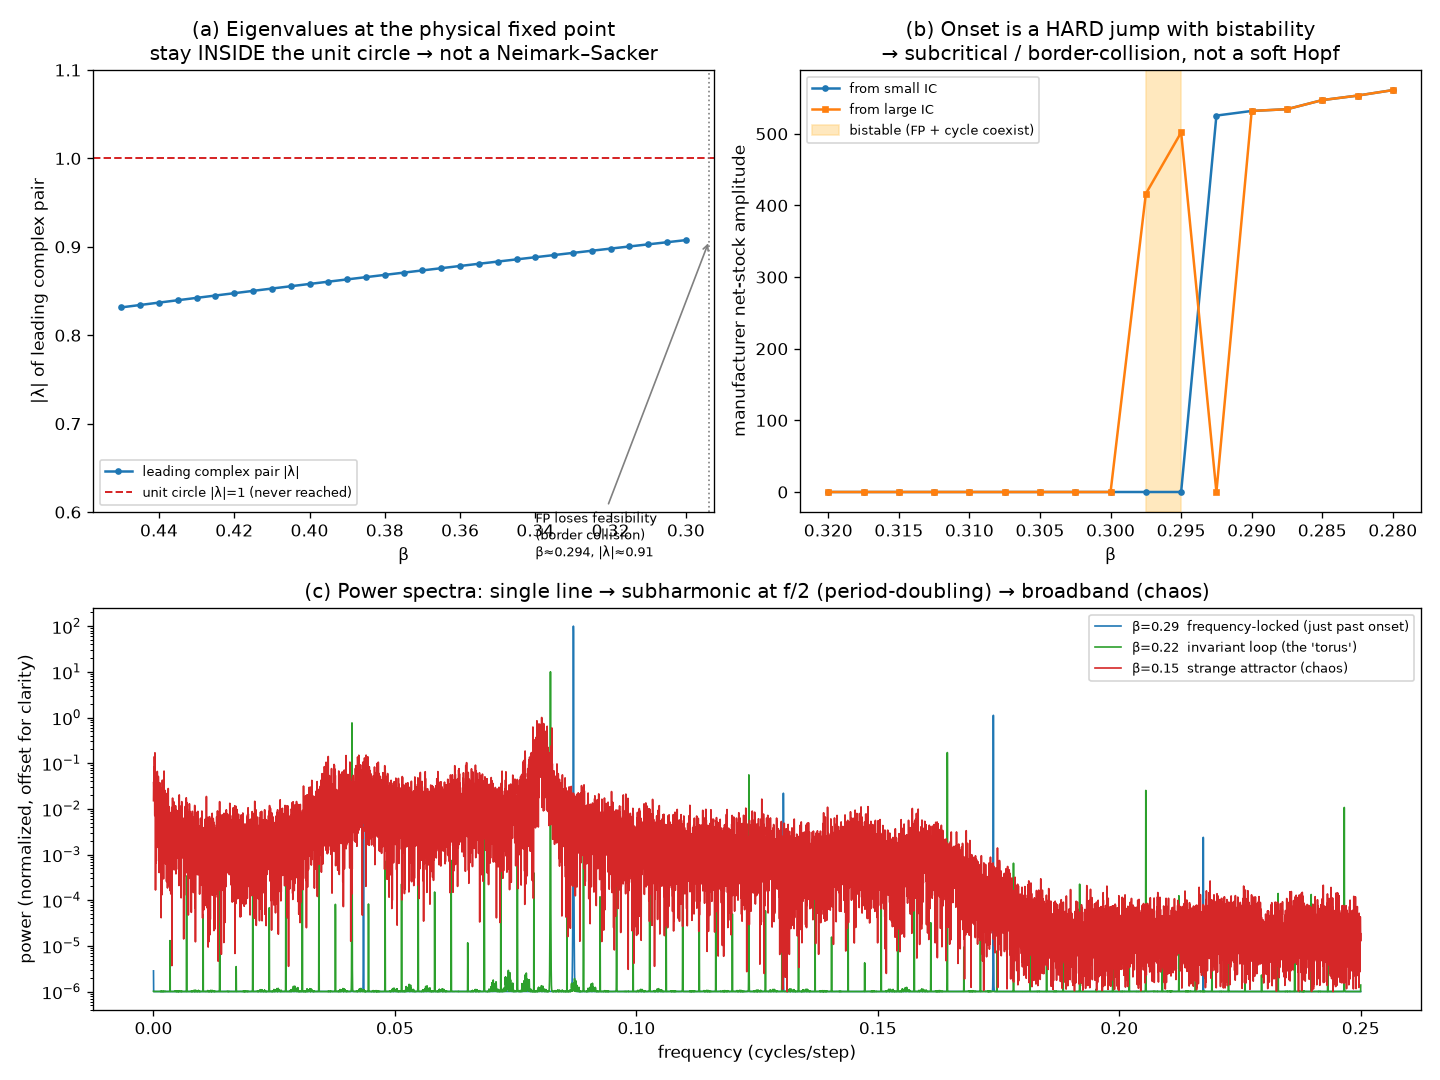
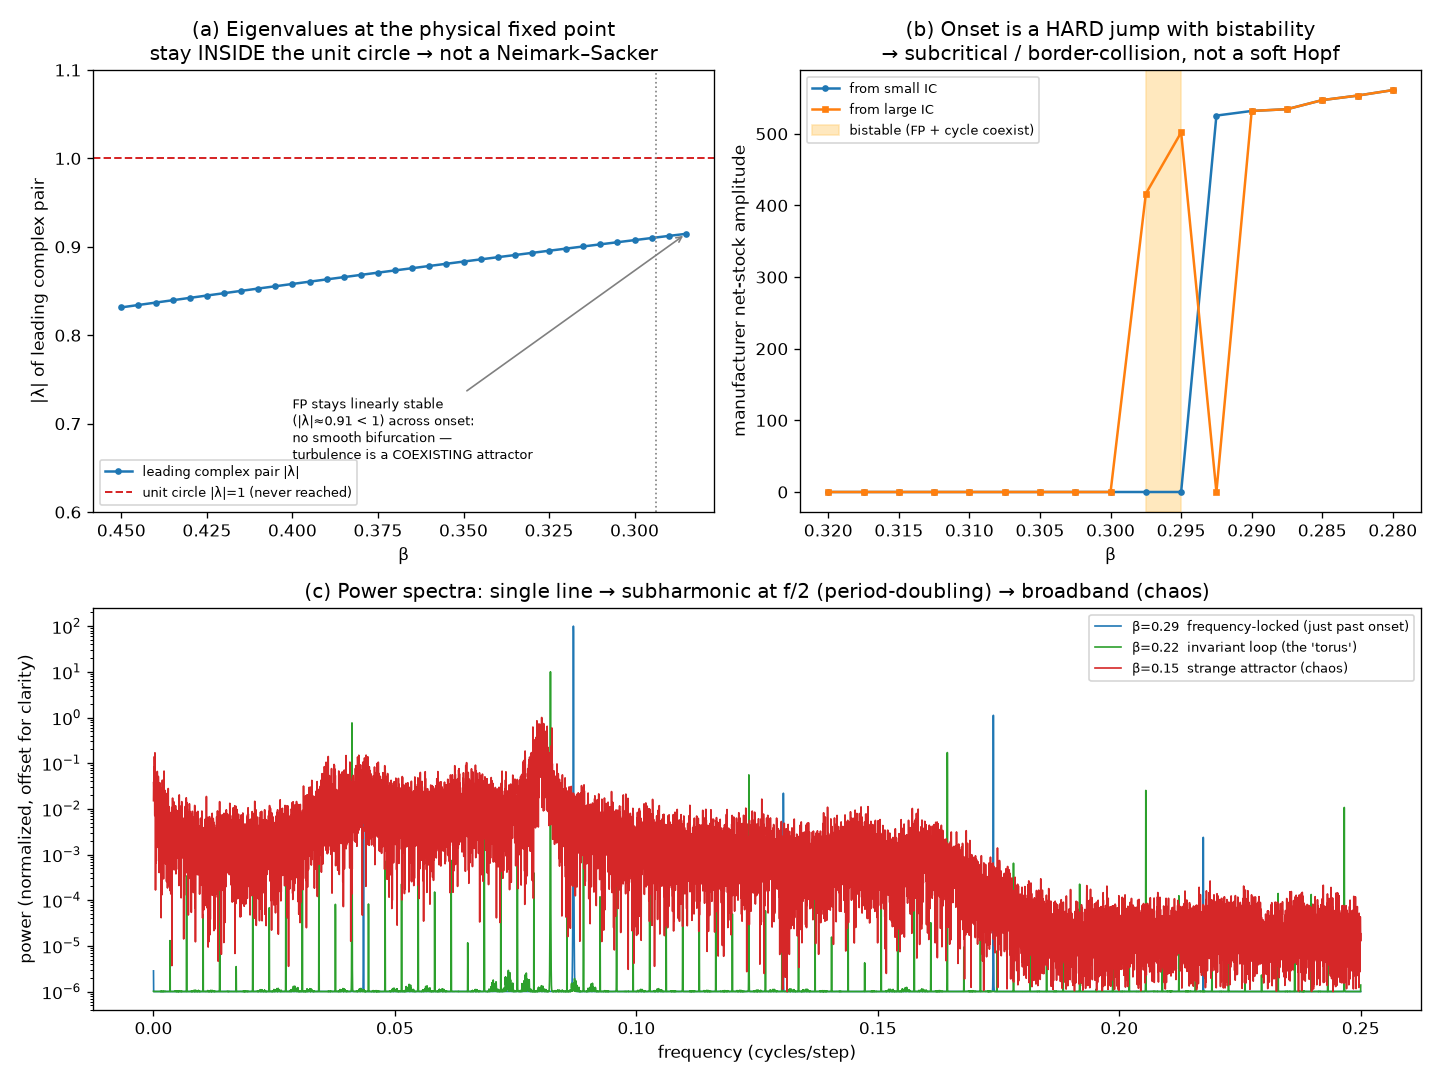
Sharpen CYB-2 border-collision finding: coexistence, path-dependence, active border
Close-out refinements after a more careful look at the onset, folding in the two
findings Desktop flagged. The headline (piecewise-smooth border-collision, NOT a
smooth Neimark-Sacker) is unchanged and, if anything, stronger.

- The attracting fixed point (found by honest iteration) stays linearly stable
  |lambda|~0.91 and INTERIOR (inv-backlog~129, order~100, far from both borders)
  clean through the onset region -- it never crosses |lambda|=1 and is NOT
  destroyed. Corrected the earlier imprecise "FP loses feasibility / collides with
  a switching manifold" wording (in run_route.py, linearize.py, README, plan,
  solution) accordingly.

- The turbulent attractor is therefore a COEXISTING attractor (bistability over a
  broad beta range), not the post-instability state. Named finding: endogenous
  path-dependence / hysteresis -- same economy, same parameters, calm OR turbulent
  depending on history. An anti-equilibrium-uniqueness result, load-bearing for the
  thesis.

- Identified the active border: instrumenting the developed attractor, the
  dominant constraint is ORDER NON-NEGATIVITY (max(0,order) -- you can't un-order;
  manufacturer orders zero 42-56% of steps), with the stockout floor secondary
  (~24%). README leads with the economic reading: the chaos is born when the chain
  collides with its own hard constraints; smooth/equilibrium models linearize those
  surfaces away and cannot see it. run_route.py now prints this constraint-activity
[…]

diff --git a/src/chaos/run_route.py b/src/chaos/run_route.py
@@ -115,12 +115,43 @@ def spectrum(beta, keep=60000):
     return f, P / P.max()
 
 
+def constraint_activity(beta, n=40000, warm=20000):
+    """Which switching manifold does the developed attractor actually collide with?
+    Re-runs the step inline to flag, per tier per step, whether the order saturated
+    at max(0,·) (order non-negativity — you can't un-order) or shipping was
+    inventory-limited (stockout floor). Returns fraction of steps each is active."""
+    p = ChaosParams(beta=beta, a_S=A_S, L=L, theta=THETA)
+    c = ChaosChain(p)
+    order0 = np.zeros(3); stockout = np.zeros(3); steps = 0
+    for t in range(n):
+        incoming = p.mu
+        for i, tier in enumerate(c.tiers):
+            arr = tier.transit_in.popleft(); tier.inventory += arr; tier.on_order -= arr
+            tier.backlog += incoming
+            so = tier.inventory < tier.backlog - 1e-9
+            shipped = min(tier.inventory, tier.backlog); tier.inventory -= shipped; tier.backlog -= shipped
+            if i == 0: c.consumed += shipped
+            else: c.tiers[i - 1].transit_in.append(shipped)
+            tier.D_hat += p.theta * (incoming - tier.D_hat)
+            ind = (tier.D_hat + p.a_S * (p.S_star - (tier.inventory - tier.backlog))
+                   + p.a_SL * (p.L * tier.D_hat - tier.on_order))
+            o0 = ind < -1e-9
+            order = max(0.0, ind); tier.on_order += order
+            if i == p.n_tiers - 1: tier.transit_in.append(order)
+            else: incoming = order
+            if t >= warm:
+                if o0: order0[i] += 1
+                if so: stockout[i] += 1
+        if t >= warm: steps += 1
+    return order0 / steps, stockout / steps
+
+
 # ----------------------------------------------------------------- figures
 def make_figures(out_dir: Path):
     out_dir.mkdir(parents=True, exist_ok=True)
 
     # ---- Figure 1: route diagnosis (eigenvalues + hard onset + spectra) ----
-    betas_eig = np.round(np.arange(0.45, 0.299, -0.005), 4)
+    betas_eig = np.round(np.arange(0.45, 0.2849, -0.005), 4)
     mods, angs, _ = eigen_track(betas_eig)
     onset = 0.5 * (BETA_ONSET_LO + BETA_ONSET_HI)
 
@@ -132,8 +163,9 @@ def make_figures(out_dir: Path):
     axA.plot(betas_eig, mods, "-o", ms=3, color="#1f77b4", label="leading complex pair |λ|")
     axA.axhline(1.0, color="#d62728", lw=1.2, ls="--", label="unit circle |λ|=1 (never reached)")
     axA.axvline(onset, color="gray", lw=1.0, ls=":")
-    axA.annotate(f"FP loses feasibility\n(border collision)\nβ≈{onset:.3f}, |λ|≈{mods[-1]:.2f}",
-                 xy=(onset, mods[-1]), xytext=(0.34, 0.55),
+    axA.annotate(f"FP stays linearly stable\n(|λ|≈{mods[-1]:.2f} < 1) across onset:\n"
+                 f"no smooth bifurcation —\nturbulence is a COEXISTING attractor",
+                 xy=(betas_eig[-1], mods[-1]), xytext=(0.40, 0.66),
                  fontsize=8, arrowprops=dict(arrowstyle="->", color="gray"))
     axA.set_xlabel("β"); axA.set_ylabel("|λ| of leading complex pair")
     axA.set_title("(a) Eigenvalues at the physical fixed point\n"
@@ -200,35 +232,38 @@ def main():
     (p1, p2, mods, angs, betas_eig, onset,
      betas_amp, amp_small, amp_large, bist) = make_figures(out_dir)
 
-    print("[a] EIGENVALUES at the physical fixed point (linearized one-step map)")
-    print(f"    leading complex pair: |λ| rises only to {mods[-1]:.3f} at ∠{angs[-1]:.1f}° "
-          f"(β={betas_eig[-1]}), then the FP loses feasibility.")
-    print(f"    -> the pair NEVER reaches |λ|=1: not a Neimark–Sacker. The equilibrium")
-    print(f"       collides with a switching manifold while linearly stable "
-          f"(border collision).\n")
+    print("[a] EIGENVALUES at the physical (attracting) fixed point")
+    print(f"    leading complex pair stays at |λ|≈{mods[-1]:.3f} (∠{angs[-1]:.1f}°) across the")
+    print(f"    onset region — it NEVER reaches |λ|=1. The equilibrium does not undergo")
+    print(f"    any smooth local bifurcation: no Neimark–Sacker, no flip.\n")
 
-    print("[b] ONSET — hard jump + bistability")
-    j = np.argmax(amp_small > 1) if (amp_small > 1).any() else -1
+    print("[b] ONSET — hard jump + BISTABILITY (the heart of it)")
     print(f"    net-stock amplitude jumps 0 → {amp_large[bist].max() if bist.any() else amp_small.max():.0f} "
-          f"across Δβ≈0.003 (discontinuous).")
+          f"(discontinuous, history-dependent).")
     if bist.any():
-        print(f"    bistable window β∈[{betas_amp[bist].min():.4f},{betas_amp[bist].max():.4f}]: "
-              f"a large cycle coexists with the stable fixed point.")
-    print("    -> hard transition with hysteresis: subcritical / border-collision, not soft.\n")
+        print(f"    bistable window β∈[{betas_amp[bist].min():.4f},{betas_amp[bist].max():.4f}]: a large "
+              f"constraint-riding attractor COEXISTS with the still-stable fixed point.")
+    print("    -> same economy, same parameters: calm OR turbulent depending on history")
+    print("       (endogenous path-dependence / hysteresis). Born by border-collision, not soft Hopf.\n")
 
-    print("[c] PHASE PORTRAITS + SPECTRA (geometry)")
-    print("    delay embedding: frequency-locked points (β=0.29) → closed invariant loop")
-    print("      (β=0.22, riding the order≥0 constraint) → strange attractor (β=0.15).")
-    print("    spectra: single line → subharmonic at f/2 (period-doubling) → broadband.\n")
+    print("[c] WHICH BORDER + geometry")
+    for beta in (0.22, 0.15):
+        o0, so = constraint_activity(beta)
+        print(f"    β={beta}: manufacturer order=0 (can't un-order) active {o0[-1]:.0%} of steps, "
+              f"stockout {so[-1]:.0%}; wholesaler order=0 {o0[1]:.0%}.")
+    print("    -> the dominant active border is ORDER NON-NEGATIVITY (max(0,·) — order")
+    print("       irreversibility), with the stockout floor secondary. The non-smoothness")
+    print("       is the economics. Geometry: points → invariant loop → strange attractor;")
+    print("       spectra: single line → subharmonic at f/2 → broadband.\n")
 
     print(f"    figure -> {p1}")
     print(f"    figure -> {p2}")
-    print("\nVERDICT: BORDER-COLLISION bifurcation in a piecewise-smooth map "
-          "(Zhusubaliyev & Mosekilde)\n  — the equilibrium collides with the "
-          "order/shipping saturation manifold while still linearly\n  stable; the "
-          "born invariant loop frequency-locks and period-doubles into a bounded\n  "
-          "strange attractor (λ>0). NOT a smooth Neimark–Sacker. The piecewise-smooth "
-          "clamps\n  are not a nuisance — they ARE the bifurcation mechanism.")
+    print("\nVERDICT: a BORDER-COLLISION / piecewise-smooth route (Zhusubaliyev & Mosekilde).\n"
+          "  The equilibrium stays linearly stable (|λ|<1) — NOT a Neimark–Sacker. A bounded\n"
+          "  constraint-riding attractor (λ>0) is born abruptly and COEXISTS with it "
+          "(bistability,\n  endogenous path-dependence). The hard borders — dominantly order "
+          "non-negativity\n  (you can't un-order) — are not a nuisance; they ARE the mechanism.\n"
+          "  Formal normal-form (J_L/J_R → Nusse–Yorke) classification continues in CYB-4.")
 
 
 if __name__ == "__main__":

diff --git a/src/chaos/linearize.py b/src/chaos/linearize.py
@@ -16,12 +16,14 @@ Model-agnostic on purpose (operates on a callable + a flat state vector), like
 `lyapunov.py` and `bifurcation.py` — the next mechanism reuses it unchanged.
 
 WHY THIS MATTERS FOR CYB-2 (the border-collision finding). Whether the supply
-chain's route to chaos is a smooth Hopf/Neimark–Sacker (eigenvalue pair crosses the
-unit circle) or a *border-collision* (the equilibrium hits a switching manifold of
-the piecewise-linear map while still linearly stable) cannot be read off a
-trajectory — it requires the eigenvalues of the linearization at the physical fixed
-point. This instrument supplies them; the verdict was border-collision (the leading
-pair tops out at |λ|≈0.91 and the fixed point loses feasibility before any crossing).
+chain's route to chaos is a smooth Hopf/Neimark–Sacker (a complex eigenvalue pair
+crosses the unit circle) or a *piecewise-smooth border-collision* (a bounded,
+constraint-riding attractor is born abruptly and coexists with the equilibrium)
+cannot be read off a trajectory — it requires the eigenvalues of the linearization
+at the physical fixed point. This instrument supplies them; the verdict was
+border-collision: the leading pair stays at |λ|≈0.91 and **never reaches the unit
+circle**, so the equilibrium undergoes no smooth bifurcation — the turbulence is a
+coexisting attractor (bistability), not a destabilized fixed point.
 
 CAVEAT — piecewise-smooth maps. The model has kinks (`max(0, order)`,
 `ship=min(inventory, backlog)`). The Jacobian is only meaningful where the fixed

diff --git a/src/chaos/README.md b/src/chaos/README.md
@@ -96,32 +96,40 @@ confirmations all point elsewhere:
 
 ![route diagnosis](figures/cybeersym_chaos_v0_route_diagnosis.png)
 
-1. **(a) Eigenvalues at the physical fixed point never reach the unit circle.**
-   Linearizing the one-step map at the equilibrium (`linearize.py`) and tracking the
-   leading complex pair as β falls: it climbs only to **|λ| ≈ 0.91 (∠ ≈ 40°)** and
-   then the fixed point **loses feasibility** (an inventory / supply line would go
-   negative). A Neimark–Sacker *requires* |λ|→1; here the equilibrium is destroyed
-   **while still linearly stable** — it collides with a switching manifold of the
-   piecewise-linear map.
-2. **(b) Onset is a hard jump with bistability.** The attractor amplitude jumps
-   **0 → ~525 over Δβ ≈ 0.003** (discontinuous, not continuous-from-zero), and just
-   above onset a large cycle **coexists** with the still-globally-stable fixed point
-   (β ∈ [0.295, 0.298]). A supercritical Hopf shows neither; these are the hallmarks
-   of a **hard, hysteretic** transition.
-3. **(c) Geometry.** Delay-embedded phase portraits (below) show the closed
-   invariant loop Desktop's intuition called for — but born via (a)+(b), riding the
-   `order ≥ 0` constraint (the flat segments are the piecewise-smooth fingerprint).
-   Spectra: a single sharp line → a **subharmonic at f/2** (period-doubling *within*
-   the loop) → broadband.
+1. **(a) The equilibrium's eigenvalues never reach the unit circle.** Linearizing
+   the one-step map at the *attracting* fixed point (`linearize.py`, fixed point
+   found by honest iteration) and tracking the leading complex pair as β falls: it
+   stays at **|λ| ≈ 0.91 (∠ ≈ 40°)** clean through the onset region and **never
+   reaches |λ| = 1.** The equilibrium undergoes **no smooth local bifurcation** — no
+   Neimark–Sacker, no flip. (The *load-bearing* catch: an earlier Newton solve found
+   a root with |λ|=1.13 — but that was a **virtual** equilibrium on the *linear
+   extension* of a piece, outside its region of validity, with a negative supply
+   line. Mistaking it for real would have *falsely confirmed* a Neimark–Sacker. The
+   physical fixed point, found by iteration, is the |λ|≈0.91 one.)
+2. **(b) Onset is a hard jump with bistability — the heart of the result.** The
+   turbulent attractor amplitude jumps **0 → ~525 over Δβ ≈ 0.003** (discontinuous,
+   not continuous-from-zero), and it **coexists** with the still-stable equilibrium:
+   from a small initial perturbation the economy sits calm at the fixed point; from a
+   large one it lands on the turbulent attractor. The equilibrium is never destroyed
+   — a constraint-riding attractor is simply **born alongside it**.
+3. **(c) Which border, and the geometry.** Instrumenting the developed attractor:
+   the dominant active constraint is **order non-negativity** (`max(0, order)` — the
+   manufacturer orders zero **42–56 %** of steps), with the **stockout** floor
+   (`min`-ship) secondary (~24–27 %). Delay-embedded phase portraits (below) show the
+   closed invariant loop Desktop's intuition called for — its flat segments **riding
+   the `order ≥ 0` border** (the piecewise-smooth fingerprint) — breaking down into a
+   strange attractor. Spectra: a single sharp line → a **subharmonic at f/2**
+   (period-doubling *within* the loop) → broadband.
 
 ![phase portraits](figures/cybeersym_chaos_v0_phase_portraits.png)
 
-**Verdict: a BORDER-COLLISION bifurcation of a piecewise-smooth map**
-(Zhusubaliyev & Mosekilde) — frequency-locked points → invariant loop →
-frequency-locking / period-doubling → bounded **strange attractor** (λ>0). The
-clamps (`max(0, order)`, `ship = min(inventory, backlog)`) are not a numerical
-nuisance; they **are** the bifurcation mechanism. The structural reason a clean
-logistic cascade never appears: this is a ~21-D *piecewise-smooth* delay system —
+**Verdict: a BORDER-COLLISION / piecewise-smooth route** (Zhusubaliyev & Mosekilde).
+The equilibrium stays linearly stable; a bounded, constraint-riding attractor
+(invariant loop → frequency-locking / period-doubling → **strange attractor**, λ>0)
+is **born abruptly and coexists** with it. The clamps (`max(0, order)`,
+`ship = min(inventory, backlog)`) are not a numerical nuisance; they **are** the
+mechanism. The structural reason a clean logistic cascade never appears: this is a
+~21-D *piecewise-smooth* delay system —
 clean period-doubling cascades are a low-dimensional-*smooth*-map phenomenon.
 
 Same discipline as CYB-1's "information sharing suppresses but does not flatten":
@@ -129,6 +137,31 @@ let the data refute the framing — *including a framing handed over by the othe
 agent* — and the correction is the sharper, more citable result. The **load-bearing
 claim is unaffected**: bounded + aperiodic + λ>0 + deterministic + conserved =
 deterministic chaos, measured.
+
+## The economic reading (the distinctive part)
+
+The borders are not numerical kinks — they are **real economic constraints**:
+`max(0, order)` is **order irreversibility** (you can't *un-order* stock already
+requested), and `ship = min(inventory, backlog)` is the **stockout floor** (you
+can't ship what you don't have). The measurement above says the turbulence is born
+**dominantly at the order-irreversibility border** (the manufacturer ordering zero
+42–56 % of the time on the attractor). So the finding, stated plainly:
+
+> **The chaos appears when the chain's trajectory starts colliding with its own
+> hard constraints — most of all the inability to send stock back up the line. The
+> non-smoothness *is* the economics.**
+
+This is exactly what smooth / equilibrium models — and most analytical bullwhip
+treatments — *cannot* see: they linearize these constraint surfaces away, so the
+bifurcation that lives *on* them is invisible to them. Cybeersym keeps the
+constraints exact (conservation + the clamps), so it sees the turbulence they hide.
+
+**Endogenous path-dependence (an anti-equilibrium-uniqueness result, for free).**
+Because the turbulent attractor **coexists** with the stable equilibrium
+(bistability), *the same economy at the same parameters can sit calm or turbulent
+depending only on its history.* The state is **not pinned by the parameters** — a
+direct contradiction of equilibrium-uniqueness, and load-bearing for the THESIS
+(history matters; where the economy *is* depends on where it has *been*).
 
 ## Regime classification (load-bearing for later tickets)
 
@@ -217,6 +250,11 @@ callable and a flat state vector, knowing nothing about supply chains.
   cycle collides with a switching manifold (our `max(0, order)` / stockout clamps)
   and changes type abruptly — hard onset, coexistence, invariant loops born without a
   smooth Hopf. This is what the eigenvalue + bistability measurements identify.
+* **Nusse, H. E. & Yorke, J. A. — border-collision normal form** (the foundational
+  piecewise-linear normal form classifying what is born when an orbit hits a
+  switching manifold). The formal one-sided-Jacobian (J_L/J_R) reduction is deferred
+  to **CYB-4**; v0 establishes the border-collision identity from the eigenvalue,
+  bistability, and constraint-activity evidence.
 
 ## Scope (v0 deliberately excludes)
 

diff --git a/docs/solutions/chaos-route-is-border-collision-not-smooth-hopf.md b/docs/solutions/chaos-route-is-border-collision-not-smooth-hopf.md
@@ -48,26 +48,31 @@ The model is a **piecewise-smooth** map: `order = max(0, …)` and
 `ship = min(inventory, backlog)` are kinks (switching manifolds). Three independent
 measurements distinguish a *smooth* bifurcation from a *border-collision*:
 
-- **(a) Eigenvalues at the *physical* fixed point.** Linearize the one-step map
-  (finite-difference Jacobian, `linearize.py`) at the equilibrium and track the
-  leading complex pair as β falls. It climbs only to **|λ|≈0.91 (∠≈40°)** and then
-  the fixed point **loses feasibility** (an inventory / supply line would go
-  negative). A Neimark–Sacker *requires* the pair to reach |λ|=1; here it never does
-  — the equilibrium is **destroyed while still linearly stable**, by colliding with
-  a switching manifold. *Pitfall avoided:* Newton can drive the fixed-point solve
-  *through* a kink into an unphysical branch (negative supply line) that has its own
-  (spurious, |λ|>1) eigenvalues — that virtual equilibrium is NOT the real one. Find
-  the physical fixed point by **iteration in the stable regime**, and check
-  feasibility on any Newton-continued root.
-- **(b) Onset is a hard jump with bistability.** Amplitude jumps **0 → ~525 over
-  Δβ≈0.003** (discontinuous), and just above onset a large cycle **coexists** with
-  the still-globally-stable fixed point (verified by running from small vs large
-  initial conditions). Supercritical Hopf = continuous-from-zero and no coexistence;
-  we see the opposite — hard and hysteretic.
-- **(c) Geometry.** Delay-embedded phase portraits show frequency-locked points → a
-  **closed invariant loop** (whose flat segments ride the `order≥0` constraint — the
-  piecewise-smooth fingerprint) → a **strange attractor**. FFT: a single sharp line
-  → a **subharmonic at f/2** (period-doubling *within* the loop) → broadband.
+- **(a) Eigenvalues at the *physical* fixed point never reach the unit circle.**
+  Linearize the one-step map (finite-difference Jacobian, `linearize.py`) at the
+  *attracting* equilibrium (found by iteration) and track the leading complex pair as
+  β falls: it stays at **|λ|≈0.91 (∠≈40°)** clean through the onset region and
+  **never reaches |λ|=1**. The equilibrium undergoes **no smooth local bifurcation**.
+  *Load-bearing pitfall avoided:* a Newton solve found a root with |λ|=1.13 — but
+  that was a **virtual** equilibrium on the *linear extension* of a piece, outside
+  its region of validity (negative supply line). Mistaking it for real would have
+  *falsely confirmed* a Neimark–Sacker. Find the physical fixed point by **iteration
+  in the stable regime**, and check feasibility/branch-validity on any Newton root.
+- **(b) Onset is a hard jump with bistability — and the equilibrium is NOT
+  destroyed.** Amplitude jumps **0 → ~525 over Δβ≈0.003** (discontinuous), and the
+  turbulent attractor **coexists** with the still-stable equilibrium (verified by
+  running from small vs large initial conditions): a constraint-riding attractor is
+  **born alongside** the stable fixed point, not in place of it. Supercritical Hopf =
+  continuous-from-zero and no coexistence; we see the opposite. The coexistence is
+  **endogenous path-dependence / hysteresis** — same parameters, calm or turbulent
+  depending on history (an anti-equilibrium-uniqueness result).
+- **(c) Which border, and geometry.** Instrumenting the developed attractor: the
+  dominant active constraint is **order non-negativity** (`max(0, order)`, "you can't
+  un-order" — manufacturer orders zero **42–56 %** of steps), with the **stockout**
+  floor (`min`-ship) secondary (~24–27 %). Delay-embedded phase portraits show
+  frequency-locked points → a **closed invariant loop** (flat segments riding the
+  `order≥0` border — the piecewise-smooth fingerprint) → a **strange attractor**.
+  FFT: a single sharp line → a **subharmonic at f/2** → broadband.
 
 The structural reason the original logistic cascade never shows up: this is a ~21-D
 **piecewise-smooth delay** system. Clean period-doubling cascades are a

diff --git a/docs/plans/2026-06-28-feat-chaos-v0-deterministic-chaos-instrument-plan.md b/docs/plans/2026-06-28-feat-chaos-v0-deterministic-chaos-instrument-plan.md
@@ -145,9 +145,9 @@ Canonical regime: `a_S=0.7, L=3, θ=0.25`, σ=0, control = β swept 0.34→0.08.
 ### Route confirmations (criterion 6, added at close-out)
 | confirmation | result |
 |---|---|
-| (a) eigenvalues at physical fixed point | leading complex pair \|λ\|≈0.83→0.91 ∠~40°, **never crosses 1**; FP loses feasibility at β≈0.294 → border collision, not Neimark–Sacker |
-| (b) onset character | amplitude jumps **0 → ~525 over Δβ≈0.003**; **bistable** window β∈[0.295,0.298] (cycle coexists with stable FP) → hard / hysteretic, not soft Hopf |
-| (c) geometry | delay embedding: frequency-locked points → **closed invariant loop** (riding the order≥0 constraint) → **strange attractor**; FFT: single line → subharmonic at f/2 → broadband |
+| (a) eigenvalues at physical fixed point | leading complex pair \|λ\|≈0.83→0.91 ∠~40°, **never crosses 1**; equilibrium undergoes no smooth bifurcation (the \|λ\|=1.13 root was a *virtual* equilibrium on an extrapolated branch — caught) |
+| (b) onset character | amplitude jumps **0 → ~525 over Δβ≈0.003**; the turbulent attractor **coexists** with the still-stable FP (**bistability** → endogenous path-dependence) → hard / hysteretic, not soft Hopf |
+| (c) which border + geometry | dominant active border = **order non-negativity** `max(0,·)` (manufacturer orders 0 **42–56%** of steps), stockout secondary (~24%); delay embedding: points → **closed invariant loop** (riding the order≥0 border) → **strange attractor**; FFT: single line → subharmonic at f/2 → broadband |
 
 **Two spec corrections this build earned.** Criterion 1 predicted a clean
 period-doubling cascade (refuted). The close-out then predicted a smooth